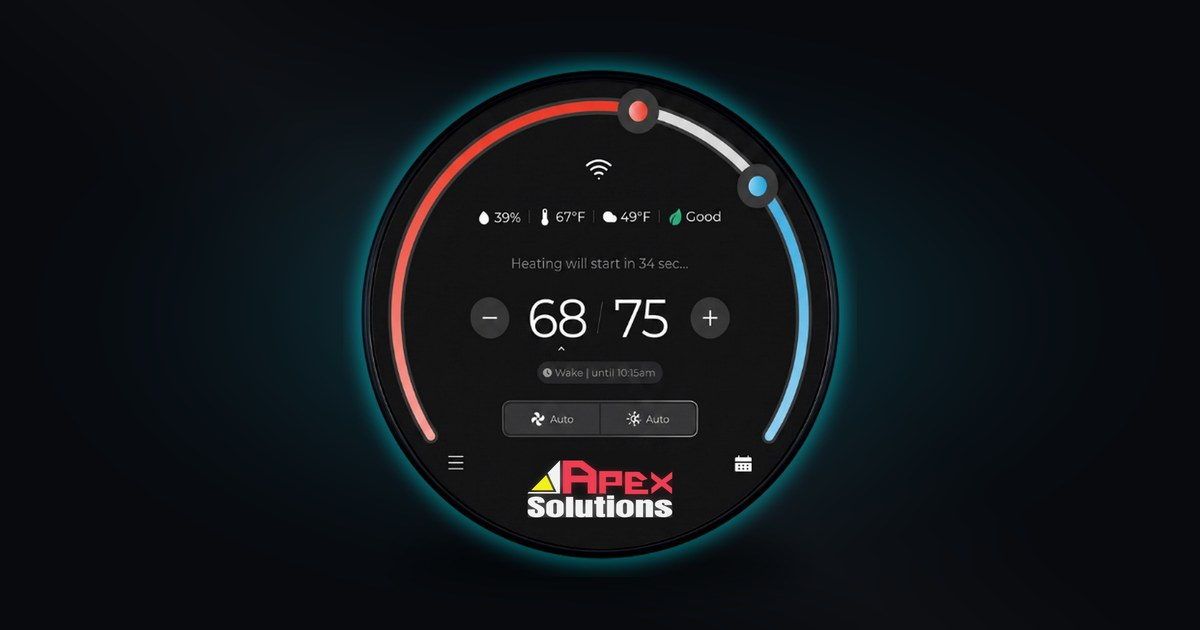
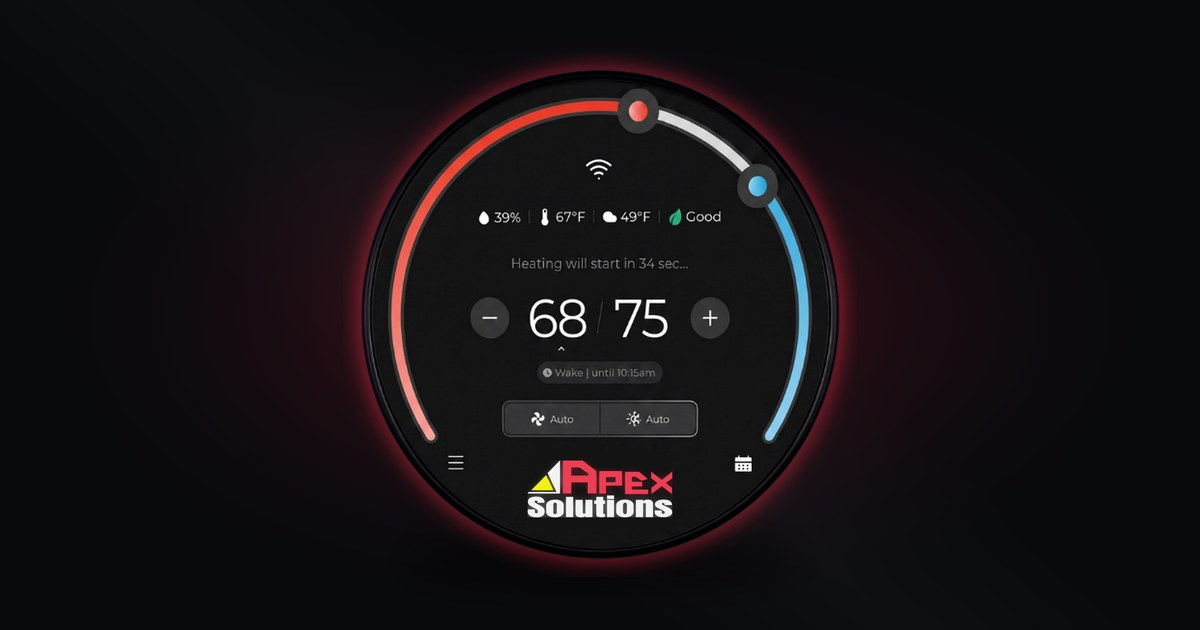
Stat halo, preview bloom and button glow follow brand color
Claude-Session: https://claude.ai/code/session_017Am9Vt2d9363dkCXn1SzDf

Changed region(s): [[0.2775, 0.0905, 0.74, 0.9048]]

diff --git a/apex-plumbing-solutions/index.html b/apex-plumbing-solutions/index.html
@@ -62,14 +62,14 @@ p strong{color:var(--text);font-weight:700}
 /* hero */
 .hero{padding:28px 20px 44px;text-align:center;position:relative}
 .hero:before{content:"";position:absolute;inset:30px 0 auto;height:440px;
-  background:radial-gradient(closest-side,rgba(var(--brand-rgb),.20),rgba(69,227,247,.10) 55%,transparent 75%);pointer-events:none}
+  background:radial-gradient(closest-side,rgba(var(--brand-rgb),.20),rgba(var(--brand2-rgb),.08) 55%,transparent 75%);pointer-events:none}
 .stat{width:min(70vw,300px);height:auto;margin:6px auto 26px;position:relative;animation:float 6s ease-in-out infinite}
 @keyframes float{50%{transform:translateY(-6px)}}
 .hero p{max-width:420px;margin:14px auto 0}
 .ctas{display:flex;gap:10px;justify-content:center;margin-top:24px;flex-wrap:wrap}
 .btn{display:inline-flex;align-items:center;justify-content:center;gap:8px;height:52px;padding:0 22px;border-radius:14px;
   font-weight:700;font-size:16px;text-decoration:none;border:0;cursor:pointer}
-.btn-p{background:var(--cyan);color:#041014;box-shadow:0 8px 30px -8px rgba(69,227,247,.6)}
+.btn-p{background:var(--cyan);color:#041014;box-shadow:0 8px 30px -8px rgba(var(--brand-rgb),.6)}
 .btn-s{background:var(--card);color:var(--text);border:1px solid var(--edge)}
 .btn svg{width:18px;height:18px}
 

diff --git a/tools/template.html b/tools/template.html
@@ -62,14 +62,14 @@ p strong{color:var(--text);font-weight:700}
 /* hero */
 .hero{padding:28px 20px 44px;text-align:center;position:relative}
 .hero:before{content:"";position:absolute;inset:30px 0 auto;height:440px;
-  background:radial-gradient(closest-side,rgba(var(--brand-rgb),.20),rgba(69,227,247,.10) 55%,transparent 75%);pointer-events:none}
+  background:radial-gradient(closest-side,rgba(var(--brand-rgb),.20),rgba(var(--brand2-rgb),.08) 55%,transparent 75%);pointer-events:none}
 .stat{width:min(70vw,300px);height:auto;margin:6px auto 26px;position:relative;animation:float 6s ease-in-out infinite}
 @keyframes float{50%{transform:translateY(-6px)}}
 .hero p{max-width:420px;margin:14px auto 0}
 .ctas{display:flex;gap:10px;justify-content:center;margin-top:24px;flex-wrap:wrap}
 .btn{display:inline-flex;align-items:center;justify-content:center;gap:8px;height:52px;padding:0 22px;border-radius:14px;
   font-weight:700;font-size:16px;text-decoration:none;border:0;cursor:pointer}
-.btn-p{background:var(--cyan);color:#041014;box-shadow:0 8px 30px -8px rgba(69,227,247,.6)}
+.btn-p{background:var(--cyan);color:#041014;box-shadow:0 8px 30px -8px rgba(var(--brand-rgb),.6)}
 .btn-s{background:var(--card);color:var(--text);border:1px solid var(--edge)}
 .btn svg{width:18px;height:18px}
 

diff --git a/bobs-heating/index.html b/bobs-heating/index.html
@@ -55,14 +55,14 @@ p strong{color:var(--text);font-weight:700}
 /* hero */
 .hero{padding:28px 20px 40px;text-align:center;position:relative}
 .hero:before{content:"";position:absolute;inset:40px 0 auto;height:420px;
-  background:radial-gradient(closest-side,rgba(69,227,247,.22),transparent 70%);pointer-events:none}
+  background:radial-gradient(closest-side,rgba(var(--brand-rgb),.22),transparent 70%);pointer-events:none}
 .stat{width:min(70vw,300px);height:auto;margin:6px auto 26px;position:relative;animation:float 6s ease-in-out infinite}
 @keyframes float{50%{transform:translateY(-6px)}}
 .hero p{max-width:420px;margin:14px auto 0}
 .ctas{display:flex;gap:10px;justify-content:center;margin-top:24px;flex-wrap:wrap}
 .btn{display:inline-flex;align-items:center;justify-content:center;gap:8px;height:52px;padding:0 22px;border-radius:14px;
   font-weight:700;font-size:16px;text-decoration:none;border:0;cursor:pointer}
-.btn-p{background:var(--cyan);color:#041014;box-shadow:0 8px 30px -8px rgba(69,227,247,.6)}
+.btn-p{background:var(--cyan);color:#041014;box-shadow:0 8px 30px -8px rgba(var(--brand-rgb),.6)}
 .btn-s{background:var(--card);color:var(--text);border:1px solid var(--line)}
 .btn svg{width:18px;height:18px}
 

diff --git a/sample/index.html b/sample/index.html
@@ -55,14 +55,14 @@ p strong{color:var(--text);font-weight:700}
 /* hero */
 .hero{padding:28px 20px 40px;text-align:center;position:relative}
 .hero:before{content:"";position:absolute;inset:40px 0 auto;height:420px;
-  background:radial-gradient(closest-side,rgba(69,227,247,.22),transparent 70%);pointer-events:none}
+  background:radial-gradient(closest-side,rgba(var(--brand-rgb),.22),transparent 70%);pointer-events:none}
 .stat{width:min(70vw,300px);height:auto;margin:6px auto 26px;position:relative;animation:float 6s ease-in-out infinite}
 @keyframes float{50%{transform:translateY(-6px)}}
 .hero p{max-width:420px;margin:14px auto 0}
 .ctas{display:flex;gap:10px;justify-content:center;margin-top:24px;flex-wrap:wrap}
 .btn{display:inline-flex;align-items:center;justify-content:center;gap:8px;height:52px;padding:0 22px;border-radius:14px;
   font-weight:700;font-size:16px;text-decoration:none;border:0;cursor:pointer}
-.btn-p{background:var(--cyan);color:#041014;box-shadow:0 8px 30px -8px rgba(69,227,247,.6)}
+.btn-p{background:var(--cyan);color:#041014;box-shadow:0 8px 30px -8px rgba(var(--brand-rgb),.6)}
 .btn-s{background:var(--card);color:var(--text);border:1px solid var(--line)}
 .btn svg{width:18px;height:18px}
 

diff --git a/tools/make_page.py b/tools/make_page.py
@@ -189,13 +189,32 @@ def make_stat(logo, scale, nx, ny):
     return base
 
 
-def make_og(stat, accent):
+STAT_C, STAT_R = (266.0, 273.0), 243.0   # stat_base bezel center/radius (1x); the cyan halo sits outside it
+
+
+def tint_halo(stat, rgb):
+    """Recolor the baked-in cyan halo around the stat to the brand color (keeps its softness)."""
+    if tuple(rgb) == (69, 227, 247): return stat
+    k = stat.width / 532
+    a = np.array(stat).astype(float)
+    H, W = a.shape[:2]
+    yy, xx = np.mgrid[0:H, 0:W]
+    d = np.hypot(xx - STAT_C[0] * k, yy - STAT_C[1] * k) / k
+    ring = np.clip((d - STAT_R) / 4, 0, 1)
+    cyan = np.clip((a[..., 2] - a[..., 0]) / 150, 0, 1)
+    w = (ring * cyan)[..., None]
+    v = (np.maximum(a[..., 1], a[..., 2]) / 255)[..., None]
+    a[..., :3] = a[..., :3] * (1 - w) + np.array(rgb, float) * v * w
+    return Image.fromarray(a.round().clip(0, 255).astype(np.uint8), 'RGBA')
+
+
+def make_og(stat, accent, glow=(40, 190, 215)):
     W, H = 1200, 630
     yy, xx = np.mgrid[0:H, 0:W].astype(float)
-    # deep graphite with a soft cyan bloom behind the stat
+    # deep graphite with a soft bloom behind the stat (brand color)
     d = np.hypot((xx - W / 2) / W, (yy - H / 2) / H)
     bgc = np.array([8, 10, 14], float)
-    bloom = np.array([40, 190, 215], float)
+    bloom = np.array(glow, float) * 0.85
     t = np.clip(1 - d / 0.55, 0, 1) ** 2.2 * 0.38
     img = bgc + (bloom - bgc) * t[..., None]
     # faint diagonal sheen
@@ -244,8 +263,14 @@ def main():
         logo, accent = None, '#45e3f7'
         stat = Image.open(os.path.join(TOOLS, 'stat_base.png')).convert('RGBA')
         stat = stat.resize((stat.width * UP, stat.height * UP), Image.LANCZOS)
+    override = None
+    if args.color:
+        hx = args.color.lstrip('#'); override = tuple(int(hx[i:i + 2], 16) for i in (0, 2, 4))
+    theme = page_theme(prep_logo(args.logo, keep_dark=True) if args.logo else None, override)
+    glow = tuple(int(v) for v in theme['{{BRAND_RGB}}'].split(','))
+    stat = tint_halo(stat, glow)
     stat.resize((stat.width // 1, stat.height // 1)).save(os.path.join(out, 'stat.png'), optimize=True)
-    make_og(stat, accent).save(os.path.join(out, 'og.jpg'), quality=88)
+    make_og(stat, accent, glow if glow != (69, 227, 247) else (40, 190, 215)).save(os.path.join(out, 'og.jpg'), quality=88)
     x0, y0, x1, y1 = [v * UP for v in BOX]
     stat.crop((x0 - 120, y0 - 120, x1 + 120, y1 + 80)).save(os.path.join(out, '_check.png'))
 
@@ -265,10 +290,6 @@ def main():
     sms = urllib.parse.quote(f"Hi Will, it's {first + ' ' if first else ''}from {args.company}. I checked out the Nuve page, let's talk.")
     city_line = f' across {html.escape(args.city)}' if args.city else ''
     tpl = open(os.path.join(TOOLS, 'template.html'), encoding='utf-8').read()
-    override = None
-    if args.color:
-        hx = args.color.lstrip('#'); override = tuple(int(hx[i:i + 2], 16) for i in (0, 2, 4))
-    theme = page_theme(prep_logo(args.logo, keep_dark=True) if args.logo else None, override)
     rep = {
         **theme,
         '{{COMPANY}}': co,
